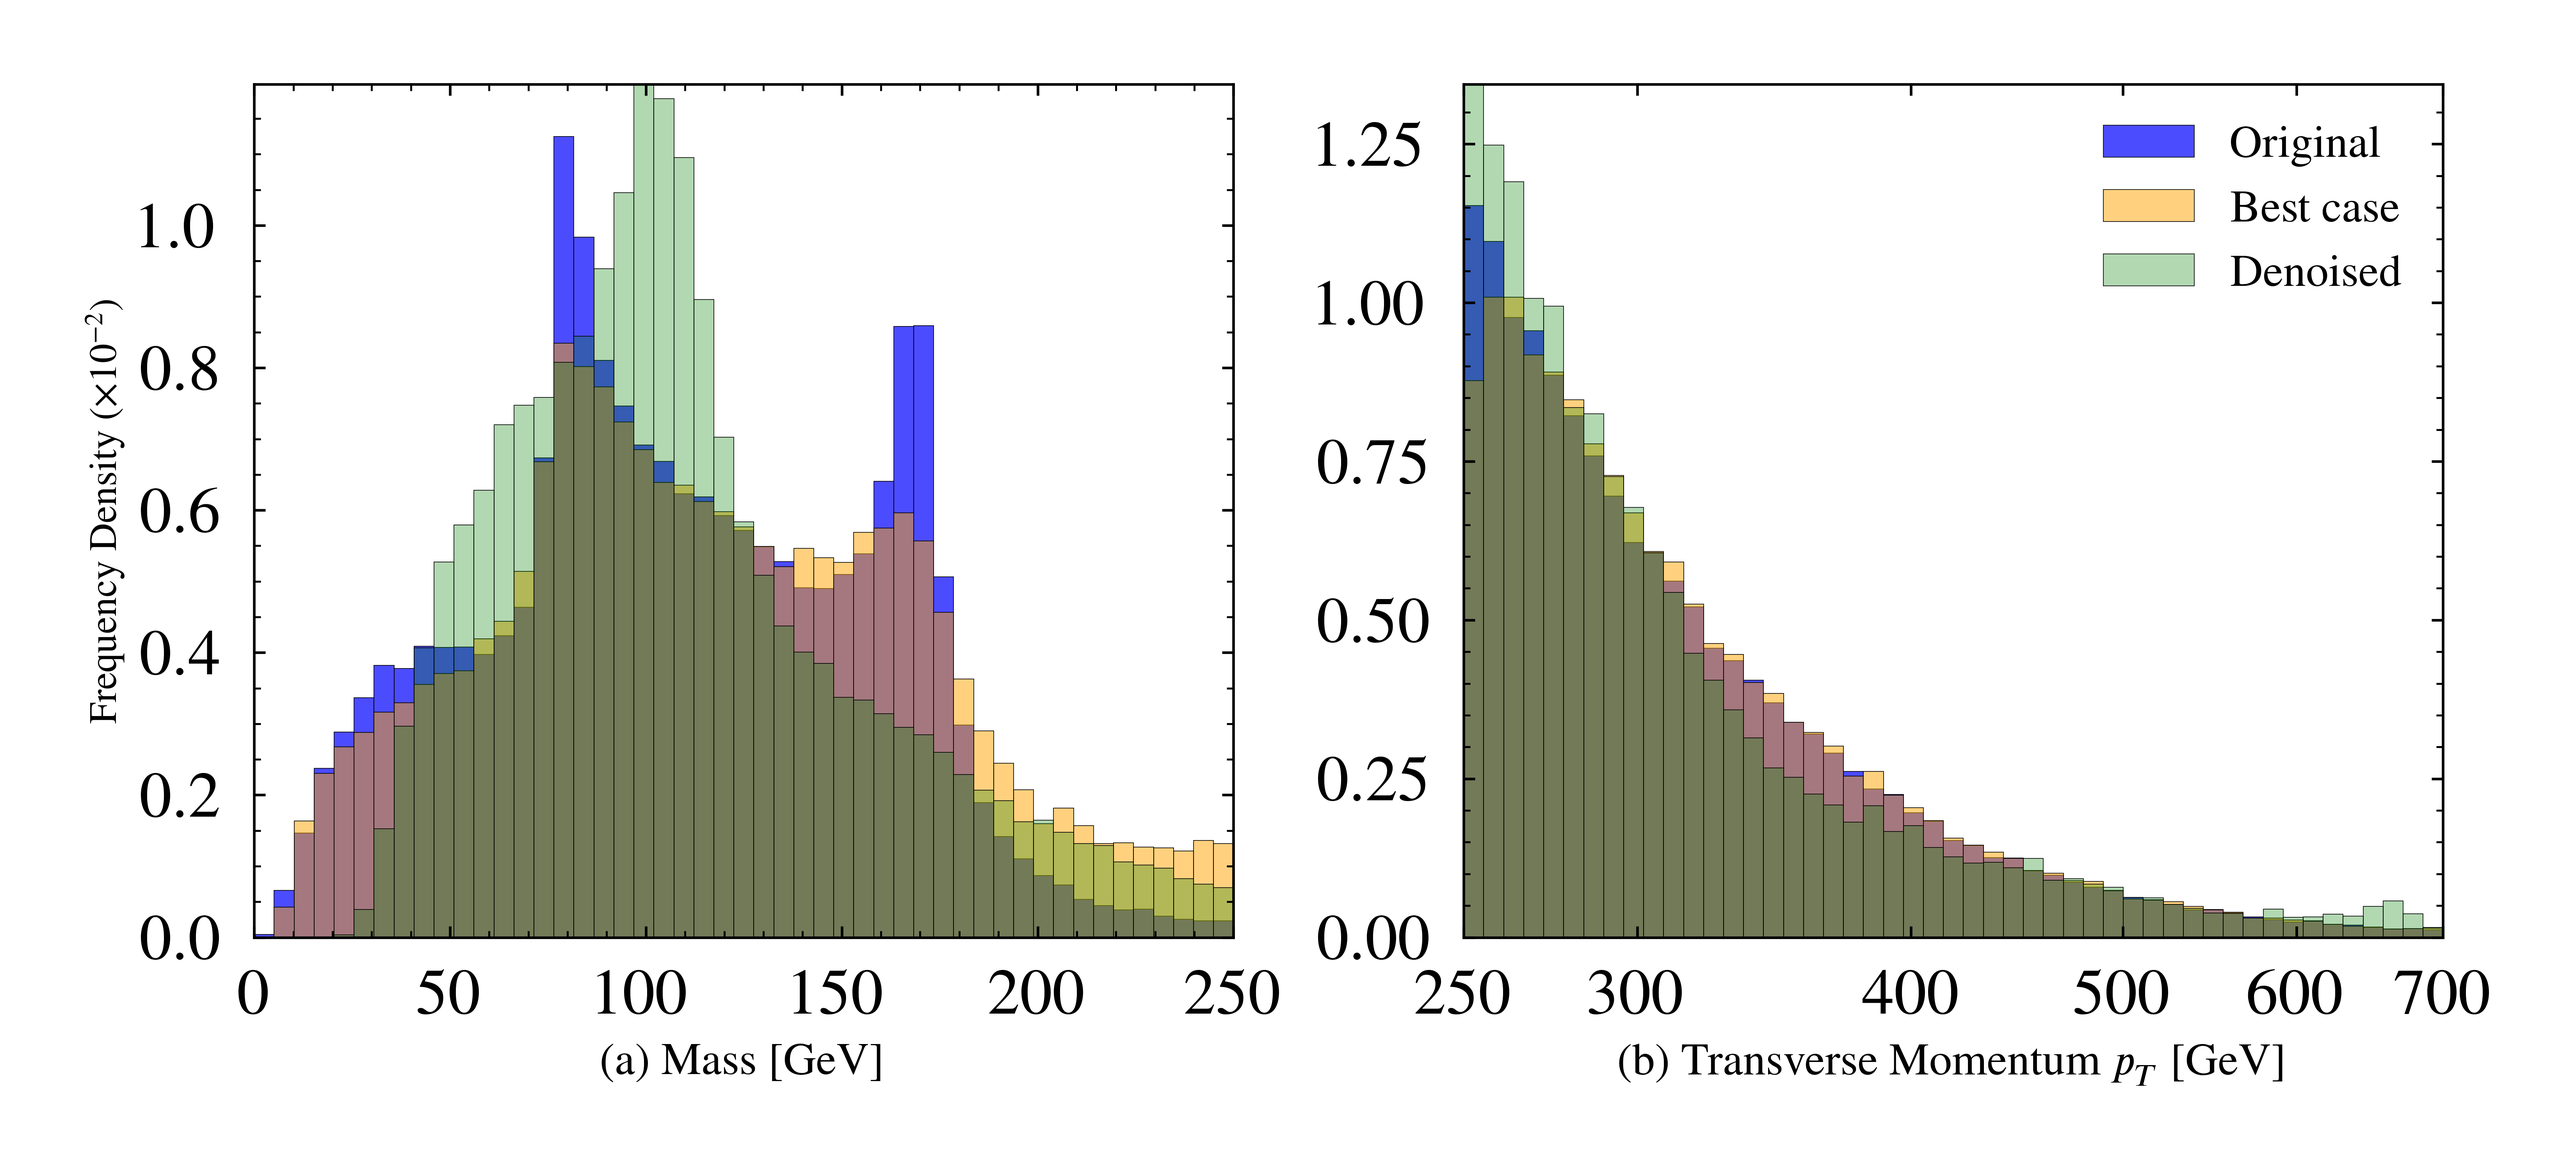
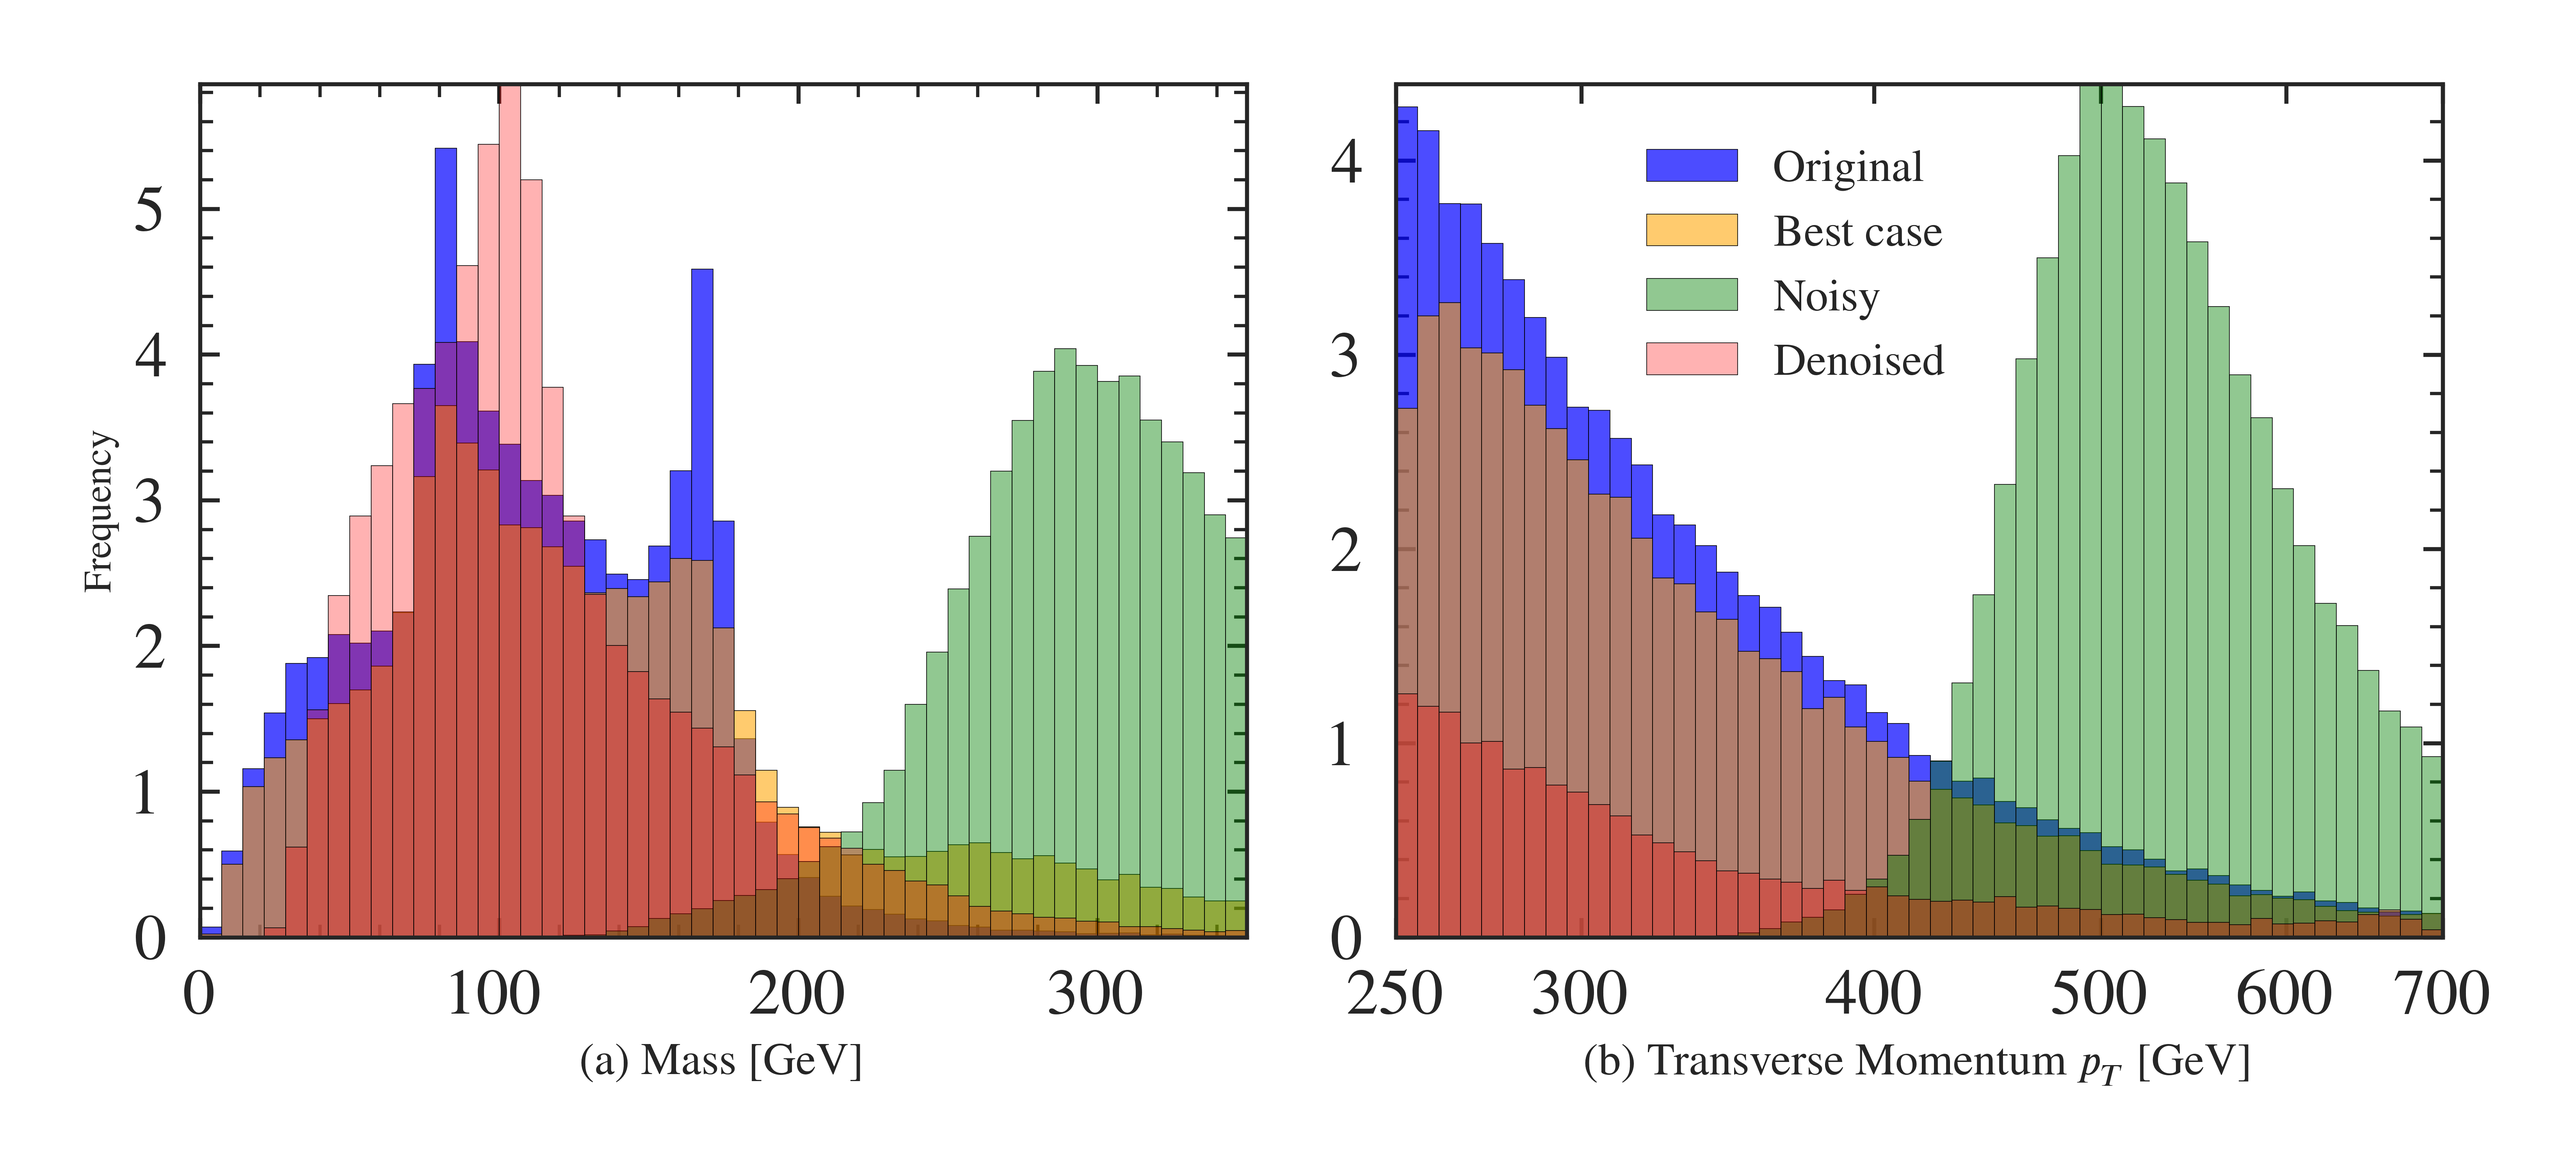
Regen

diff --git a/DDPMLHC/main_rs.py b/DDPMLHC/main_rs.py
@@ -10,23 +10,24 @@ from DDPMLHC.generate_plots.histograms_1d import plot_1d_histograms
 from DDPMLHC.generate_plots.overlaid_1d import create_overlay_plots
 from DDPMLHC.generate_plots.overlaid_debin import create_overlay_plots_debin
 from DDPMLHC.generate_plots.bmap import plot_mu_comparison, save_to_bmap
+from DDPMLHC.generate_plots.overlaid_general import create_overlay_plots_general
 from DDPMLHC.generate_plots.resolution_plots import *
 
 mpl.rcParams.update(MPL_GLOBAL_PARAMS)
 
-MAX_DATA_ROWS = 100_000
+# MAX_DATA_ROWS = 100_000
 
-# === Read in data
-print("0 :: Loading original data")
-tt = np.genfromtxt(
-    TT_PATH, delimiter=",", encoding="utf-8", skip_header=1, max_rows=MAX_DATA_ROWS
-)
-pile_up = np.genfromtxt(
-    PILEUP_PATH, delimiter=",", encoding="utf-8", skip_header=1, max_rows=MAX_DATA_ROWS
-)
-tt = EventSelector(tt)
-pile_up = EventSelector(pile_up)
-print("FINISHED loading data\n")
+# # === Read in data
+# print("0 :: Loading original data")
+# tt = np.genfromtxt(
+#     TT_PATH, delimiter=",", encoding="utf-8", skip_header=1, max_rows=MAX_DATA_ROWS
+# )
+# pile_up = np.genfromtxt(
+#     PILEUP_PATH, delimiter=",", encoding="utf-8", skip_header=1, max_rows=MAX_DATA_ROWS
+# )
+# tt = EventSelector(tt)
+# pile_up = EventSelector(pile_up)
+# print("FINISHED loading data\n")
 
 #################################################################################
 
@@ -228,12 +229,23 @@ print("FINISHED loading data\n")
 
 #################################################################################
 
-output_path = f"{CWD}/data/plots/bmap_comparison/"
+# output_path = f"{CWD}/data/plots/bmap_comparison/"
 
-plot_mu_comparison(tt, pile_up, 
-                  use_log=False,
-                  save_path=f"{output_path}/mu_comparison_linear.png")
+# plot_mu_comparison(tt, pile_up, 
+#                   use_log=False,
+#                   save_path=f"{output_path}/mu_comparison_linear.png")
 
-plot_mu_comparison(tt, pile_up, 
-                  use_log=True,
-                  save_path=f"{output_path}/mu_comparison_log.png")
+# plot_mu_comparison(tt, pile_up, 
+#                   use_log=True,
+#                   save_path=f"{output_path}/mu_comparison_log.png")
+
+#################################################################################
+
+files = [
+    f"{CWD}/data/2-intermediate/noisy_mu0_event_level.csv",
+    f"{CWD}/data/3-grid/mu0/noisy_mu{0}_event_level_from_grid{64}.csv",
+    f"{CWD}/data/2-intermediate/noisy_mu200_event_level.csv",
+    f"{CWD}/data/4-reconstruction/beta001/reconstructed_mu200_event_level_from_grid64_Unet64.csv",
+]
+labels = ["Original", "Best case", "Noisy", "Denoised"]
+create_overlay_plots_general(files, labels, mass_max=350)

diff --git a/DDPMLHC/generate_plots/overlaid_general.py b/DDPMLHC/generate_plots/overlaid_general.py
@@ -34,7 +34,7 @@ def plot_combined_histograms_with_overlay(hist_data_list, labels, save_path):
         
         for hist_data, label, color, alpha in zip(hist_data_list, labels, colors, alphas):
             entry = hist_data[idx]
-            sb.histplot(entry["data"], ax=ax, stat="density",
+            sb.histplot(entry["data"], ax=ax, stat="count",
                        bins=bin_edges, color=color, 
                        label=label, alpha=alpha,
                        edgecolor='black', linewidth=0.2)
@@ -52,10 +52,10 @@ def plot_combined_histograms_with_overlay(hist_data_list, labels, save_path):
         ax.set_xlabel(entry_ref["name"], fontsize=14)
         
         if idx == 0:
-            ax.set_ylabel("Frequency Density ($\\times 10^{-2}$)", fontsize=12)
+            ax.set_ylabel("Frequency", fontsize=12)
         else:
             ax.set_ylabel("")
-            ax.legend(fontsize=14, frameon=False)
+            ax.legend(fontsize=14, frameon=False, bbox_to_anchor=(0.2, 0.6))
     
     plt.tight_layout()
     plt.savefig(f"{save_path}/overlaid_comparison", dpi=600)
@@ -101,14 +101,3 @@ def create_overlay_plots_general(file_paths, labels, mass_max=250, save_path=Non
     } for param in hist_params] for path in file_paths]
     
     plot_combined_histograms_with_overlay(list_of_params_all, labels, save_path)
-
-# Example usage:
-
-
-files = [
-    f"{CWD}/data/2-intermediate/noisy_mu0_event_level.csv",
-    f"{CWD}/data/3-grid/mu0/noisy_mu{0}_event_level_from_grid{64}.csv",
-    f"{CWD}/data/4-reconstruction/beta001/reconstructed_mu200_event_level_from_grid64_Unet64.csv",
-]
-labels = ["Original", "Best case", "Denoised"]
-create_overlay_plots_general(files, labels)
